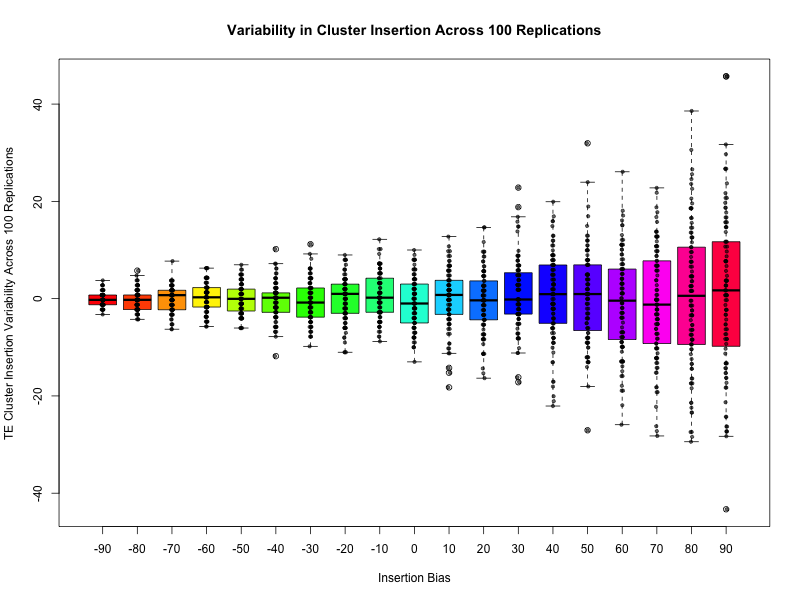
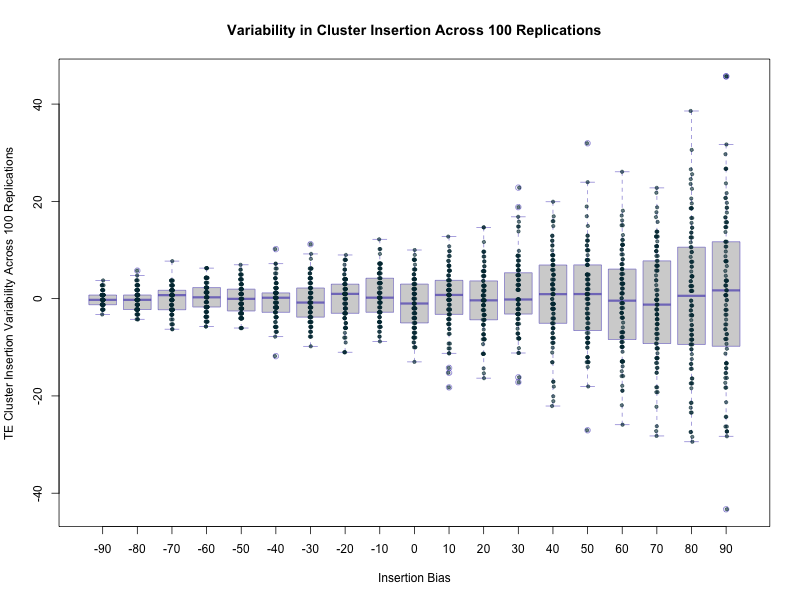
color

diff --git a/Validation_7_insertion.md b/Validation_7_insertion.md
@@ -169,7 +169,7 @@ png(filename = "images/Validation_7_1B.png", width = 800, height = 600)
 
 # Boxplot
 boxplot(df_filtered$TE_insertions ~ df_filtered$insertion_bias, 
-        col=rainbow(length(levels(df_filtered$insertion_bias))), 
+        border = rgb(0.1, 0.1, 0.7, 0.5),
         main="Variability in Cluster Insertion Across 100 Replications", 
         xlab="Insertion Bias", 
         ylab="TE Cluster Insertion Variability Across 100 Replications")
@@ -188,7 +188,7 @@ for(i in 1:length(mylevels)){
   myjitter <- jitter(rep(i, length(thisvalues)), amount=levelProportions[i]/2)
   
   # Use smaller points
-  points(myjitter, thisvalues, pch=20, cex=0.9, col=rgb(0,0,0,.6)) 
+  points(myjitter, thisvalues, pch=20, cex=0.9, col=rgb(0,0.2,0.25,0.6)) 
 }
 
 # Close the plot file
